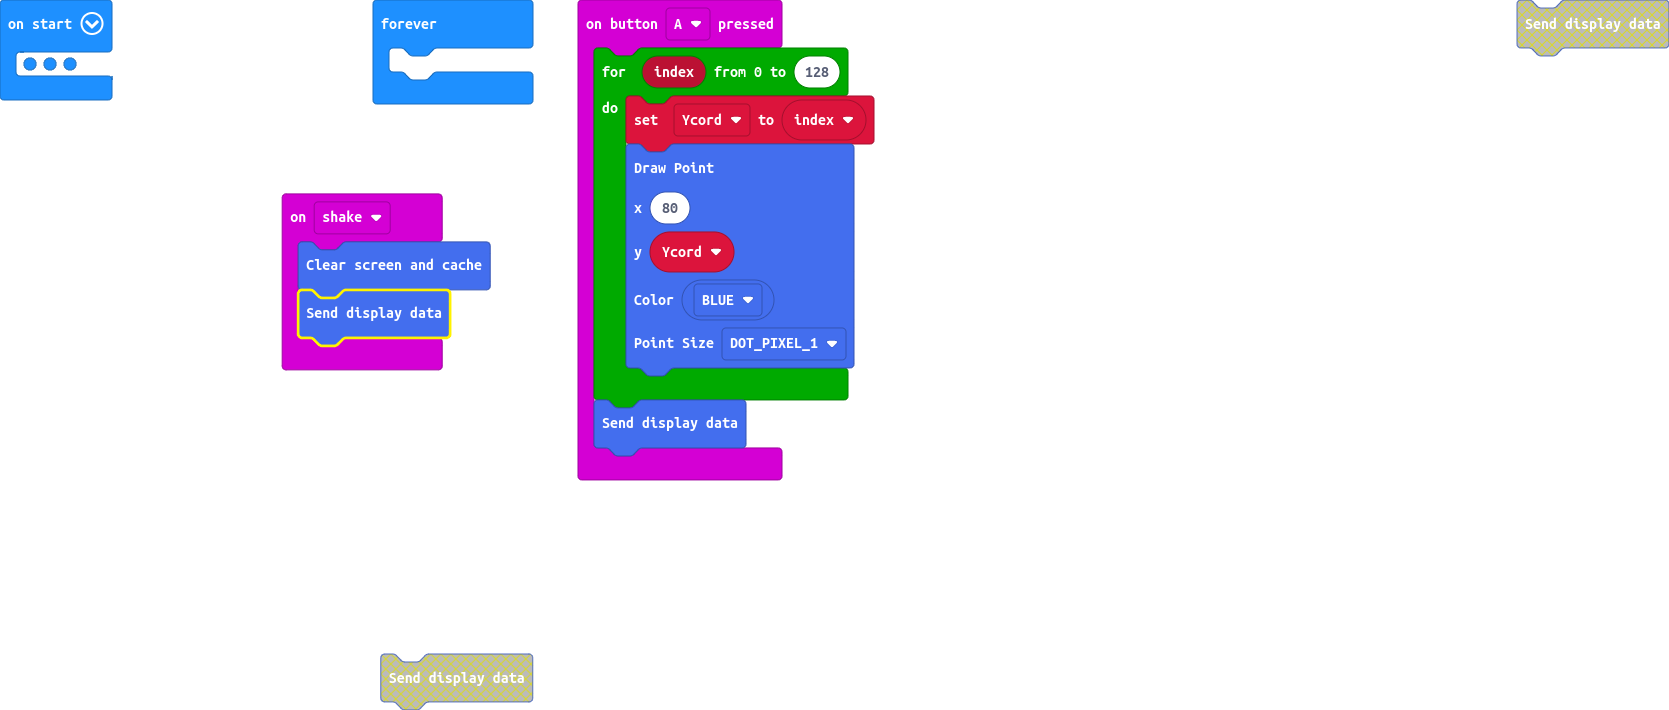
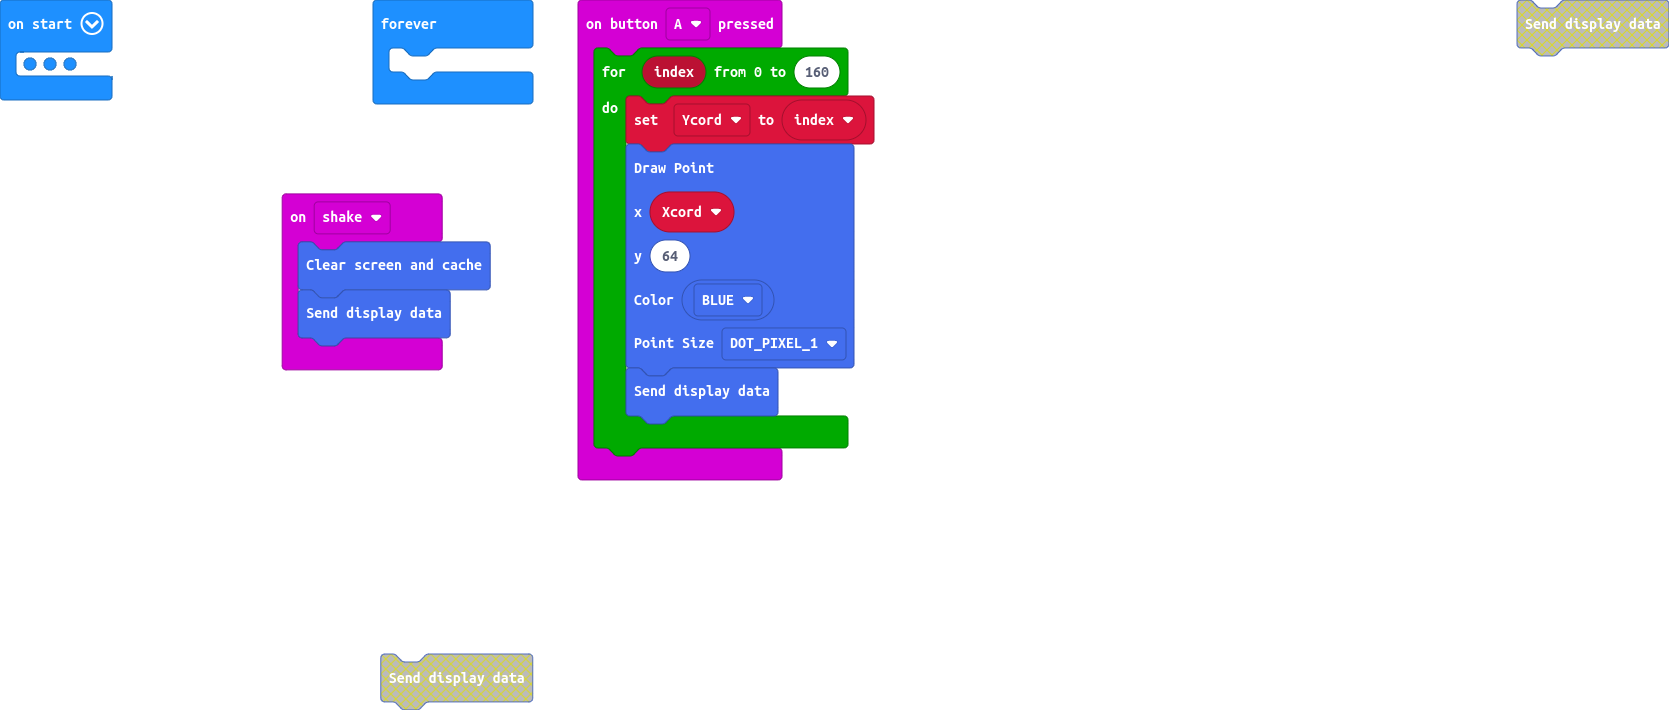
draw horiz line ( Xcord) clear when shake

diff --git a/main.ts b/main.ts
@@ -1,22 +1,23 @@
 input.onButtonPressed(Button.A, function () {
-    for (let index = 0; index <= 128; index++) {
+    for (let index = 0; index <= 160; index++) {
         Ycord = index
         LCD1IN8.DrawPoint(
-        80,
-        Ycord,
+        Xcord,
+        64,
         LCD1IN8.Get_Color(LCD_COLOR.BLUE),
         DOT_PIXEL.DOT_PIXEL_1
         )
+        LCD1IN8.LCD_Display()
     }
-    LCD1IN8.LCD_Display()
 })
 input.onGesture(Gesture.Shake, function () {
     LCD1IN8.LCD_Clear()
     LCD1IN8.LCD_Display()
 })
 let Ycord = 0
+let Xcord = 0
 let lite = 32
-let Xcord = 1
+Xcord = 1
 Ycord = 1
 LCD1IN8.LCD_Init()
 LCD1IN8.LCD_Clear()
